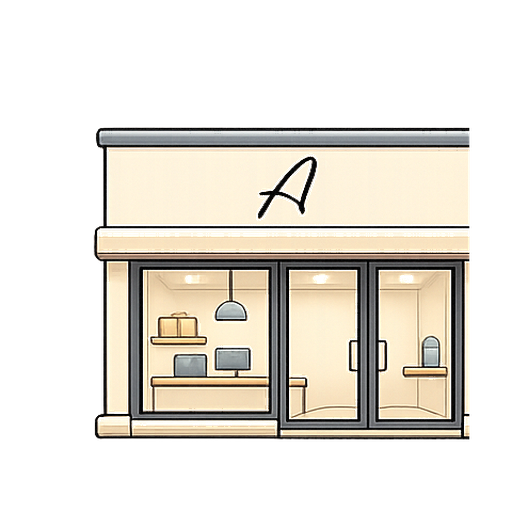
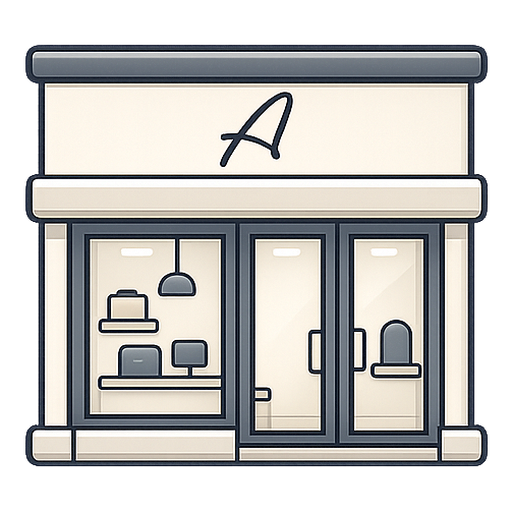
fix(lojas): diminui ícone fachada no header + nova versão do PNG
- public/loja.png substituído por nova versão criada pelo Ailson
  (mais limpa, com prateleiras visíveis e fundo já transparente nativo)
- src/App.tsx: SvgLojas renderiza no tamanho natural (size x size)
  em vez de 2.4x. Antes estava enorme dominando o header;
  agora alinha com SvgUsuarios e SvgConfiguracoes (vizinhos)

diff --git a/src/App.tsx b/src/App.tsx
@@ -240,17 +240,17 @@ const SvgUsuarios = ({ size = 32 }) => (
 );
 
 const SvgLojas = ({ size = 32 }) => {
-  // PNG icone fachada (similar ao SvgDashboard/SvgOficinas)
-  // Renderiza a 2.4x do size com margin negativo pra encaixar no slot original
-  const renderSize = Math.round(size * 2.4);
-  const marginPx = -Math.round((renderSize - size) / 2);
+  // PNG fachada (Ailson criou). Renderiza no tamanho natural (size x size),
+  // igual aos SVGs vizinhos (SvgUsuarios, SvgConfiguracoes).
+  // Antes estava em 2.4x (igual SvgDashboard/SvgOficinas que precisavam disso pra
+  // alinhar com emojis), mas o crop do PNG já tem proporção certa pro slot.
   return (
     <img
       src="/loja.png"
       alt="Lojas"
-      width={renderSize}
-      height={renderSize}
-      style={{ objectFit: 'contain', display: 'block', margin: `${marginPx}px` }}
+      width={size}
+      height={size}
+      style={{ objectFit: 'contain', display: 'block' }}
     />
   );
 };
